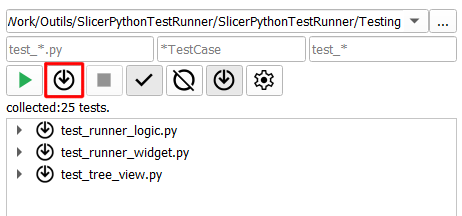
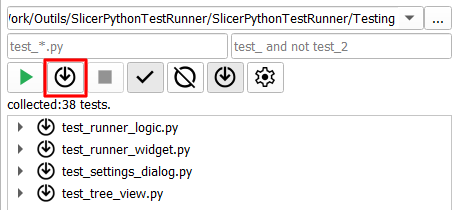
DOC: Update documentation
* Update documentation with modified filters and options

Changed region(s): [[0.0, 0.0286, 1.0, 1.0]]

diff --git a/README.md b/README.md
@@ -1,6 +1,8 @@
 # Slicer Python Test Runner
 
-<img src="https://github.com/KitwareMedical/SlicerPythonTestRunner/raw/main/Screenshots/0.png"/>
+<div style="text-align: center;">
+<img src="https://github.com/KitwareMedical/SlicerPythonTestRunner/raw/main/SlicerPythonTestRunner.png"/>
+</div>
 
 ## Table of contents
 
@@ -13,9 +15,7 @@
 
 ## Introduction
 
-<div style="text-align:center">
-<img class="center" src="https://github.com/KitwareMedical/SlicerPythonTestRunner/raw/main/SlicerPythonTestRunner.png"/>
-</div>
+<img src="https://github.com/KitwareMedical/SlicerPythonTestRunner/raw/main/Screenshots/0.png"/>
 
 This module allows running 3D Slicer module's unit tests directly from 3D Slicer's UI.
 
@@ -59,17 +59,17 @@ for `Slicer Python Test Runner`.
 
 You will see the following, empty, test runner module:
 
-<img class="center" src="https://github.com/KitwareMedical/SlicerPythonTestRunner/raw/main/Screenshots/2.png"/>
+<img class="center" src="https://github.com/KitwareMedical/SlicerPythonTestRunner/raw/main/Screenshots/1.png"/>
 
 Start by selecting the directory containing the tests using the top path selector.
-Then enter the file filter pattern, test class filter pattern, and test function filter pattern.
+Then enter the file filter pattern, and name filter pattern.
+`Note`: The function filter will be applied when running the tests but not during test collection.
 
 *Warning* : Note that by default, the module uses PyTest's conventions which expects test files, classes and functions
 to be prefixed by `test`.
 
 If you are testing using 3D Slicer convention, please use the following pattern:
 * file : *.py
-* class : *TestCase
 
 Click on the `collect` button to check that the tests to run are correctly found by the extension.
 
@@ -104,6 +104,14 @@ The following settings are accessible:
 * Minimize main window: If checked and a main window is used, minimizes the launched window at startup
 * Extra slicer args: Comma separated list of args to use when starting Slicer instance (refer to Slicer launcher CLI args for more info)
 * Extra pytest args: Comma separated list of args to pass to PyTest (please refer to PyTest args for more info)
+* Run test coverage: If checked, test coverage will be executed on the tests which are ran
+* Coverage report format: Comma separated list of coverage formats. For now only one format should be used from the UI.
+    If you want to output more coverage files, it is recommended to use coverage settings file in your project.
+* Coverage source: Comma separated list of sources folders to include in the coverage report.
+* Coverage path: Output file or directory path where the coverage report will be put.
+
+The test module is also compatible with `pytest.ini` and `.coveragerc` settings files.
+It should also be compatible with other settings files in your project to ease the configuration process.
 
 
 ## Test decorators
